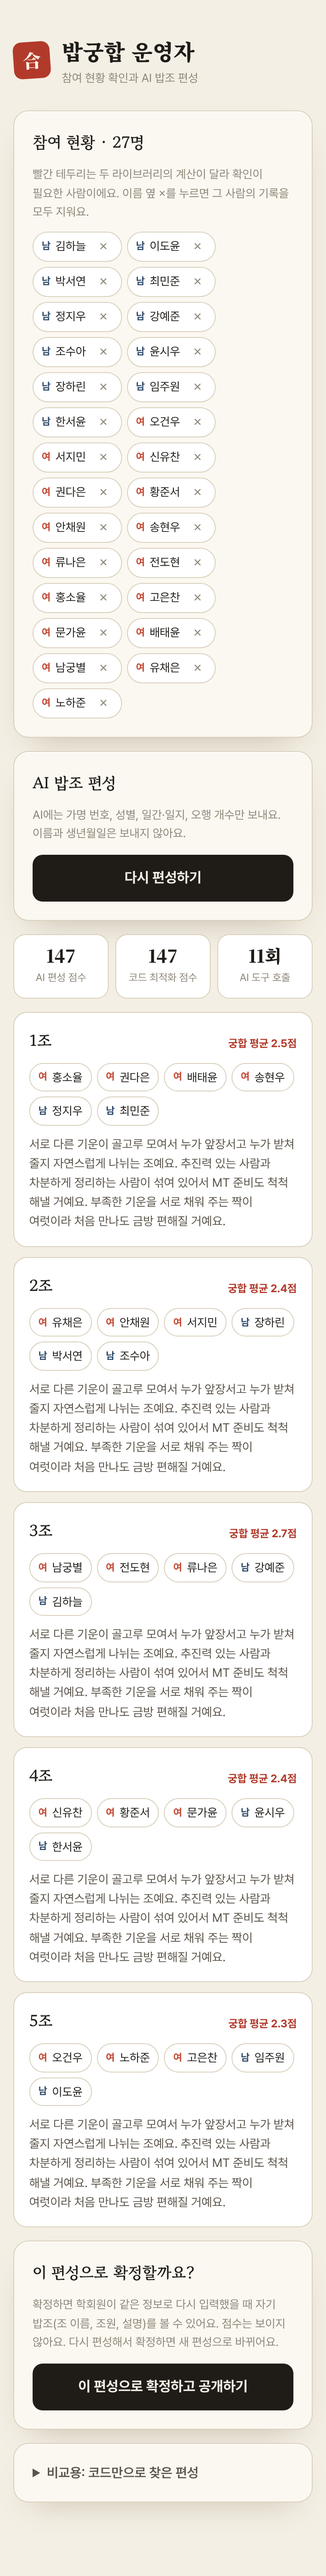
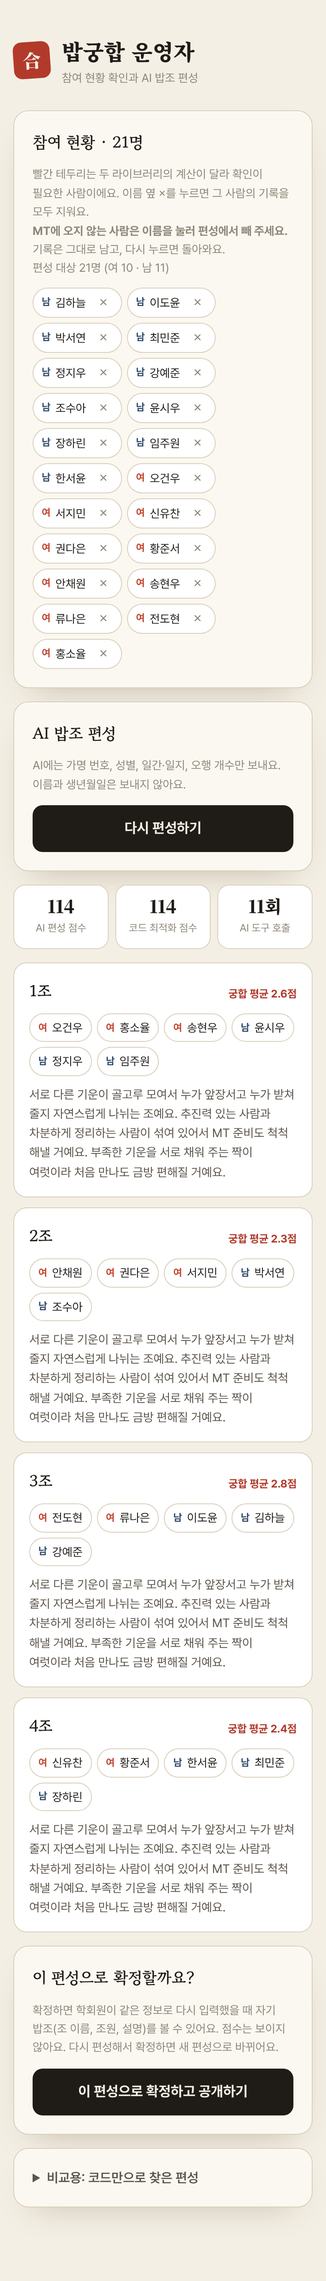
MT조를 1페이지 맨 위로, 2페이지 이름은 '회계사 커리어'
README 화면 설명과 스크린샷(가상 21명)도 갱신

Claude-Session: https://claude.ai/code/session_012bKZfKrCyZ1atjBTGebht7

Changed region(s): [[0.0308, 0.0, 0.9846, 0.9971], [0.5538, 0.0, 0.5846, 0.0312], [0.0308, 0.2804, 0.0615, 0.3116]]

diff --git a/public/index.html b/public/index.html
@@ -711,12 +711,12 @@
 
     // 결과가 길어서 세 페이지로 나눈다. 위에는 탭, 아래에는 다음 페이지 버튼.
     const PAGES = [
-      { label: '사주와 나', ids: ['character', 'saju-block', 'reading', 'specials', 'match', 'next'] },
-      { label: 'MT조·회계사 커리어', ids: ['bapjo', 'career'] },
+      { label: '사주와 나', ids: ['bapjo', 'character', 'saju-block', 'reading', 'specials', 'match', 'next'] },
+      { label: '회계사 커리어', ids: ['career'] },
       { label: '인생 흐름', ids: ['flow'] },
     ];
     function setupPages(hasBapjo) {
-      const labels = PAGES.map((p, i) => (i === 1 && !hasBapjo ? '회계사 커리어' : p.label));
+      const labels = PAGES.map((p) => p.label);
       const tabs = document.getElementById('tabs');
       const nextBtn = document.getElementById('next-page');
       const show = (n, scroll) => {

diff --git a/README.md b/README.md
@@ -10,7 +10,7 @@
 
 ## 화면
 
-| 입력 | 1. 사주와 나 | 2. 내 밥조 |
+| 입력 | 1. 사주와 나 | 1. 내 MT조(맨 위) |
 | --- | --- | --- |
 | <img src="docs/screenshots/form.png" width="240"> | <img src="docs/screenshots/result-1-saju.png" width="240"> | <img src="docs/screenshots/bapjo.png" width="240"> |
 
@@ -20,8 +20,8 @@
 
 결과는 휴대폰에서 끝까지 읽히도록 3페이지(탭 + "다음 페이지" 버튼)로 나눴다.
 
-1. **사주와 나**: 일주 동물, 사주 여덟 글자와 오행 분포, 연애·재물 풀이, 매력 지수와 신살(도화·홍염·역마·괴강), 2027년 운세, 나와 잘 맞는 사람
-2. **밥조·회계사 커리어**: 내 밥조(조 설명, 조 기운, 조원별 궁합을 잘 맞는 순서로) / 입사 부서 1·2순위(감사·세무·딜·컨설팅 중, 추천 세부 팀과 근거), 그다음 커리어(파트너·이직·개업, 대운 황금기와 연결), 일하는 스타일, 바쁜 시즌 충전법, 2027년 커리어 흐름
+1. **사주와 나**: (편성이 공개되면 맨 위에) 내 MT조(조 설명, 조 기운, 조원별 궁합을 잘 맞는 순서로), 일주 동물, 사주 여덟 글자와 오행 분포, 연애·재물 풀이, 매력 지수와 신살(도화·홍염·역마·괴강), 2027년 운세, 나와 잘 맞는 사람
+2. **회계사 커리어**: 입사 부서 1·2순위(감사·세무·딜·컨설팅 중, 추천 세부 팀과 근거), 그다음 커리어(파트너·이직·개업, 대운 황금기와 연결), 일하는 스타일, 바쁜 시즌 충전법, 2027년 커리어 흐름
 3. **인생 흐름**: 나의 기운(직진형·균형형·흡수형과 % 근거), 대운 그래프와 10년 카드(연도·간지·앞/뒤 5년), MT 이후 올해 남은 두 달, 2027년 힘이 되는 달
 
 ## AI를 어디에 쓰고, 어디에 안 쓰는가
